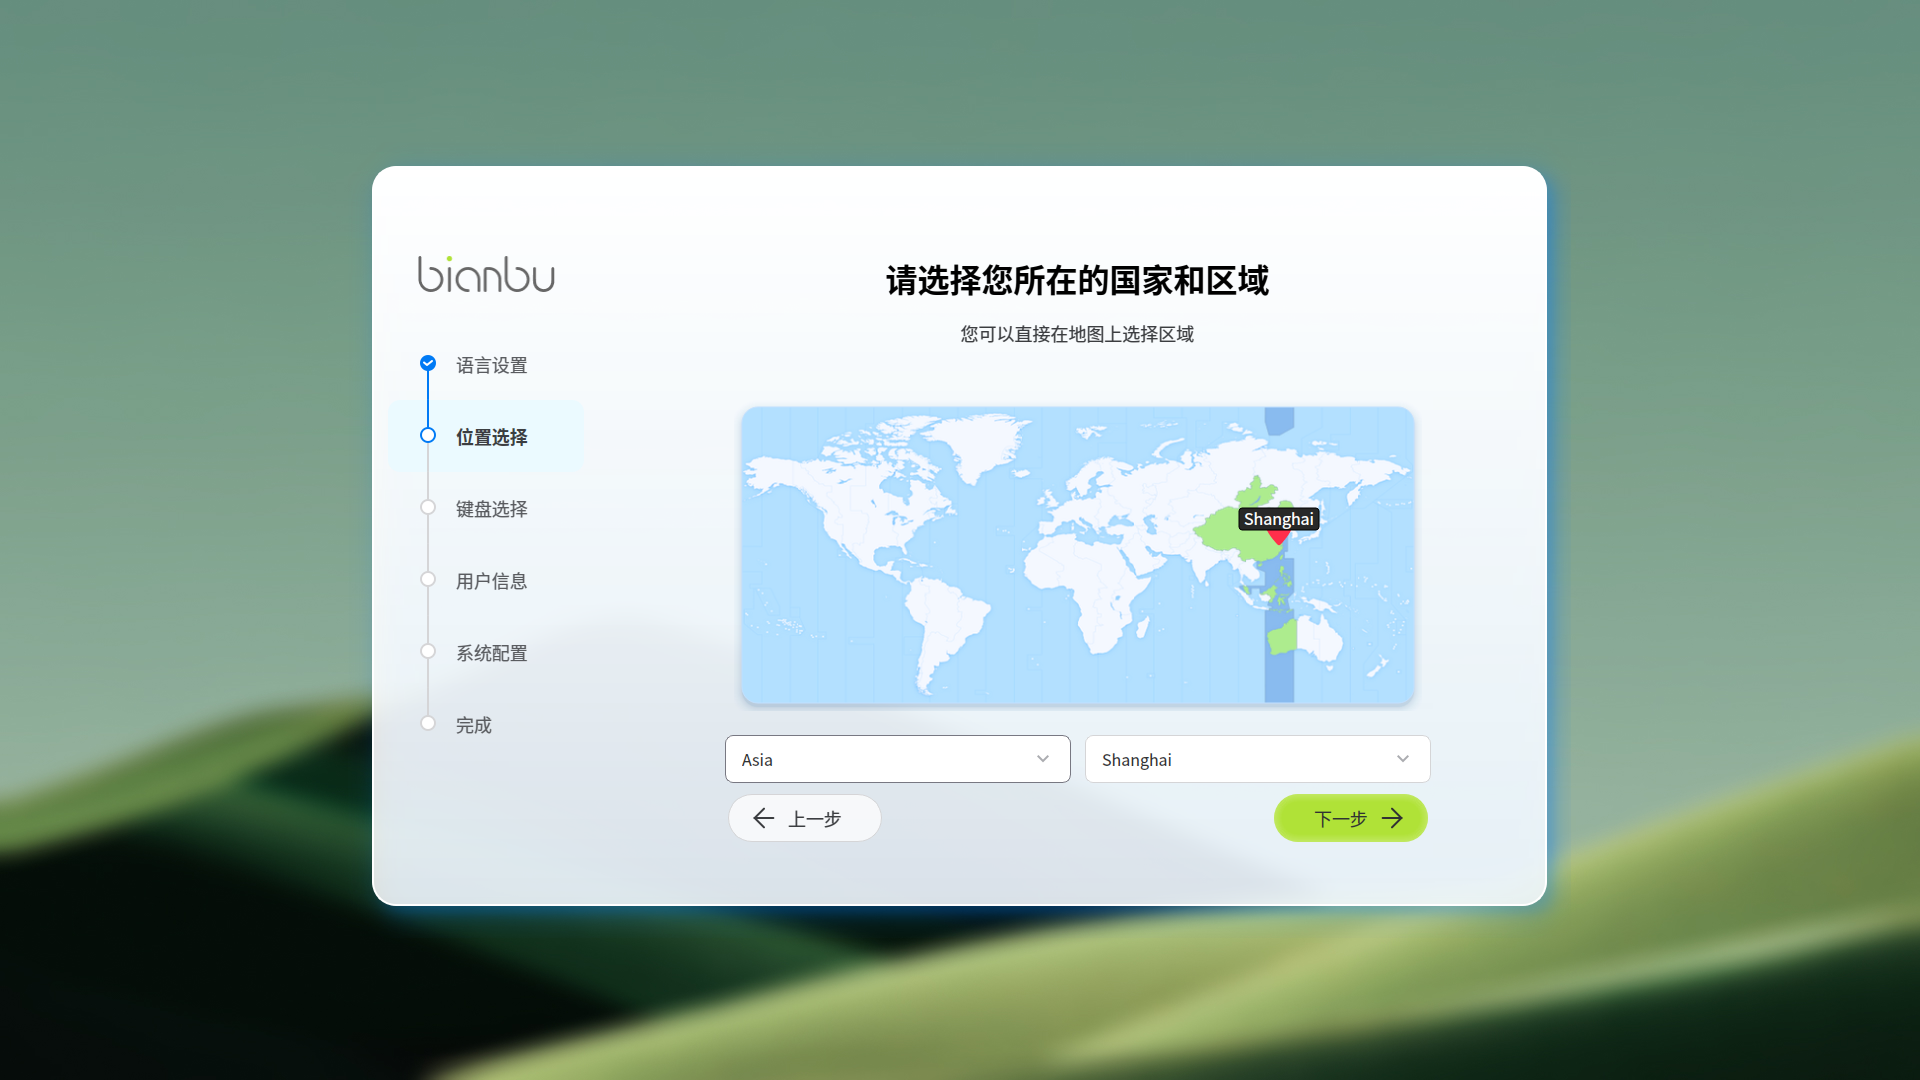
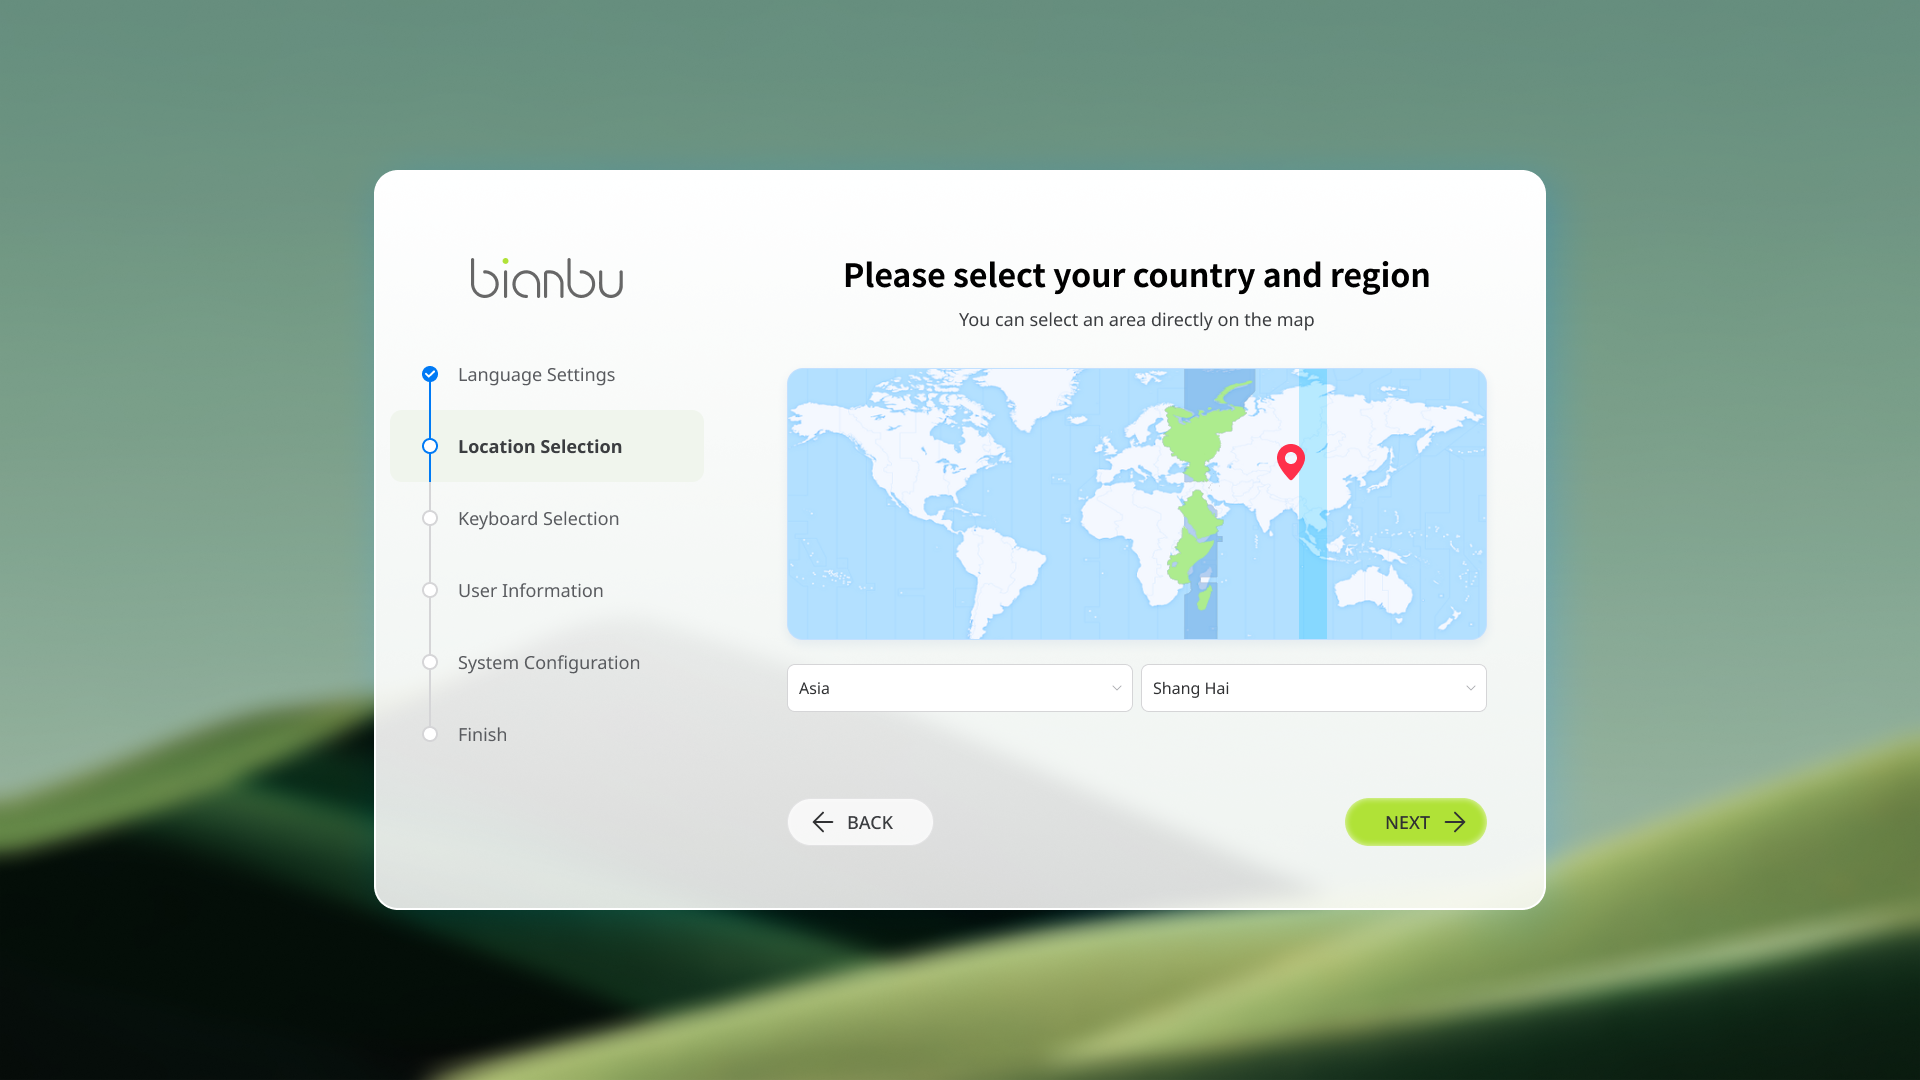
typo fixed

diff --git a/en/development/python.md b/en/development/python.md
@@ -6,27 +6,27 @@ sidebar_position: 4
 
 Python 3 is preinstalled on the Bianbu OS. You are advised to use a correct package management tool when installing third-party Python libraries. Otherwise, the dependence on software packages may be damaged.
 
-In Bianbu OS, you can install python dependencies in two ways：
+In Bianbu OS, you can install python dependencies in two ways:
 
-- Install preconfigured system Python packages using apt。
-- Create a virtual environment and install the packages using the pip package manager。
+- Install preconfigured system Python packages using apt.
+- Create a virtual environment and install the packages using the pip package manager.
 
 ## Install Python packages using apt
 
-In Bianbu OS, it is recommended to install Python3 packages via apt. These packages are usually pre-compiled and therefore faster to install. apt manages the dependencies of all packages and includes all the sub-dependencies needed to run the package when installed. Also, apt makes sure you don't break other packages when you uninstall them。
-For example, to install scipy, the scientific computing library for Python, run the following command：
+In Bianbu OS, it is recommended to install Python3 packages via apt. These packages are usually pre-compiled and therefore faster to install. apt manages the dependencies of all packages and includes all the sub-dependencies needed to run the package when installed. Also, apt makes sure you don't break other packages when you uninstall them.
+For example, to install scipy, the scientific computing library for Python, run the following command:
 
 ```shell
 sudo apt install python3-scipy
 ```
 
-To find Python packages published with apt, use apt search. In most cases, Python packages use the prefix python3- : for example, python3-numpy corresponds to Python's numpy package。
+To find Python packages published with apt, use apt search. In most cases, Python packages use the prefix python3-: for example, python3-numpy corresponds to Python's numpy package.
 
 ## Install Python packages using pip
 
 ### Changes to the pip installation
 
-In Bianbu OS, users cannot use pip to install libraries directly into the system version of Python. Trying to install a Python package system-wide using pip will output an error similar to the following：
+In Bianbu OS, users cannot use pip to install libraries directly into the system version of Python. Trying to install a Python package system-wide using pip will output an error similar to the following:
 
 ```shell
 ➜  ~ pip install numpy
@@ -52,17 +52,17 @@ note: If you believe this is a mistake, please contact your Python installation 
 hint: See PEP 668 for the detailed specification.
 ```
 
-Packages installed via pip must be installed into the Python virtual environment (venv). A virtual environment is a container where you can securely install third-party modules so that they don't interfere with your system Python environment。
+Packages installed via pip must be installed into the Python virtual environment (venv). A virtual environment is a container where you can securely install third-party modules so that they don't interfere with your system Python environment.
 
 ### Using `pip` in a virtual environment
 
-To use a virtual environment, create a container to store your Python environment. You can do this in a number of ways, depending on how you want to use Python. Let's take the virtualenv tool as an example.First install virtualenv on your system's python environment：
+To use a virtual environment, create a container to store your Python environment. You can do this in a number of ways, depending on how you want to use Python. Let's take the virtualenv tool as an example. First install virtualenv on your system's python environment:
 
 ```shell
 sudo apt install python3-virtualenv
 ```
 
-Run the following command to create the virtual environment configuration folder (myenv can be replaced with any name you like)：
+Run the following command to create the virtual environment configuration folder (myenv can be replaced with any name you like):
 
 ```shell
 virtualenv myenv
@@ -82,7 +82,7 @@ Then you should see a prompt similar to the following:
 
 The pyenv command prompt prefix indicates that the current terminal session is in a virtual environment named pyenv.
 
-To check if you are in a virtual environment, use pip list to see a list of installed packages：
+To check if you are in a virtual environment, use pip list to see a list of installed packages:
 
 ```shell
 (myenv) ➜  ~ pip list
@@ -105,7 +105,7 @@ Installing collected packages: wheel
 Successfully installed wheel-0.44.0
 ```
 
-You can verify that the installation was successful by running python3 and then importing the installed module。
+You can verify that the installation was successful by running python3 and then importing the installed module.
 
 ```shell
 (myenv) ➜  ~ python3
@@ -146,7 +146,7 @@ Users are strongly advised to use **Python 3.12 or later**. In general, it is re
 
 ### Use pyenv to manage Python versions
 
-pyenv is a very popular Python version management tool that allows you to easily install, manage, and switch between multiple versions of Python. You are free to switch between different versions of Python depending on your project's needs. Here's how to configure multiple versions of Python using pyenv。
+pyenv is a very popular Python version management tool that allows you to easily install, manage, and switch between multiple versions of Python. You are free to switch between different versions of Python depending on your project's needs. Here's how to configure multiple versions of Python using pyenv.
 
 See also for more information[The official pyenv tutorial](https://github.com/pyenv/pyenv)
 
@@ -167,7 +167,7 @@ echo 'eval "$(pyenv init -)"' >> ~/.zshrc
 source ~/.zshrc
 ```
 
-For Bash：
+For Bash:
 
 ```shell
 echo 'export PYENV_ROOT="$HOME/.pyenv"' >> ~/.bashrc

diff --git a/en/user_guide/GNOME/upgrade.md b/en/user_guide/GNOME/upgrade.md
@@ -34,6 +34,7 @@ Both **Bianbu GNOME Desktop Version** and **Bianbu NAS** support online upgrades
 >   - Choose **Remove** when prompted to delete obsolete packages
 >
 > **Note:**
+>
 > - **Do not interrupt or force-close** the update process, as this may lead to system inconsistencies or corrupted packages.
 > - If you encounter any issues during the upgrade, please refer to the [FAQs](../../faqs.md#update).
 
@@ -70,16 +71,16 @@ Follow the terminal prompts to complete the upgrade. Reboot after the process fi
 2. Launch the **Software Updater** application.
 
    ![Updater](../../static/updater_en.png)
-  Alternatively, you can launch Software Updater via **Settings** → **System** → **Software Updates**.
-  ![Updater01](../../static/updater01_en.png)
-1. Wait for update checking to complete.
+   Alternatively, you can launch Software Updater via **Settings** → **System** → **Software Updates**.
+   ![Updater01](../../static/updater01_en.png)
+   Wait for update checking to complete.
 
-2. If a new version is detected, click **Upgrade...** to begin.
+3. If a new version is detected, click **Upgrade...** to begin.
 
    ![Update Prompt](../../static/updater02_en.png)
 
    > To cancel the upgrade, click **OK**.
 
-3. Follow the upgrade wizard step by step.
+4. Follow the upgrade wizard step by step.
 
-4. Reboot the system to apply changes.
+5. Reboot the system to apply changes.

diff --git a/en/faqs.md b/en/faqs.md
@@ -22,13 +22,13 @@ If a regular user forgets their password, it can be reset using the `root` accou
 
    ![](static/tmphgeanjg5.PNG)
 
-4. Run `export LANG=en_US.UTF-8` to temporarily switch the terminal language to English and avoid character encoding issues:
+4. Run `export LANG=en_US.UTF-8` to temporarily switch the terminal language to English and avoid character encoding issues.
 
-5. Run the command `passwd username` to change the user's password, for example, to reset the password for user `bianbu`, as shown below
+5. Run the command `passwd username` to change the user's password, for example, to reset the password for user `bianbu`, as shown below:
 
    ![](static/tmpst8dy3yi.PNG)
 
-6. Press **Ctrl + Alt + F1** to return to the login screen. You can now log in with the new password..
+6. Press **Ctrl + Alt + F1** to return to the login screen. You can now log in with the new password.
 
 ## System Update
 

diff --git a/en/system_integration/bianbu_2.1_rootfs_create.md b/en/system_integration/bianbu_2.1_rootfs_create.md
@@ -10,7 +10,7 @@ It is recommended to use Ubuntu 20.04/22.04 as the host system, with Docker CE a
 
 ### Docker
 
-For docker ce installation, refer to [https://docs.docker.com/engine/install/](https://docs.docker.com/engine/install/).
+For Docker CE installation, refer to [https://docs.docker.com/engine/install/](https://docs.docker.com/engine/install/).
 
 ### QEMU
 
@@ -187,9 +187,9 @@ chroot $TARGET_ROOTFS /bin/bash -c "DEBIAN_FRONTEND=noninteractive apt-get -y --
 Different variants have different metapackages:
 
 - Minimal: `bianbu-minimal`
-- Desktop Desktop Version: `bianbu-desktop`, `bianbu-desktop-zh`, `bianbu-desktop-en`, `bianbu-desktop-minimal-en`, `bianbu-standard`, `bianbu-development`
+- Desktop Version: `bianbu-desktop`, `bianbu-desktop-zh`, `bianbu-desktop-en`, `bianbu-desktop-minimal-en`, `bianbu-standard`, `bianbu-development`
 - NAS: `bianbu-nas`
-- LXQt Desktop Version：`bianbu-desktop-lite`
+- LXQt Desktop Version: `bianbu-desktop-lite`
 
 GNOME, LXQt, and NAS variants are all based on Minimal. It is recommended to install the Minimal meta-package first, then install the corresponding meta-packages.
 

diff --git a/en/system_integration/bianbu_3.0_rootfs_create.md b/en/system_integration/bianbu_3.0_rootfs_create.md
@@ -6,11 +6,11 @@ sidebar_position: 4
 
 ## Environment Requirements
 
-The host machine is recommended to be Ubuntu 20.04/22.04, with docker ce and qemu-user-static (8.0.4, customized version with Vector 1.0 support enabled by default) installed.
+The host machine is recommended to be Ubuntu 20.04/22.04, with Docker CE and qemu-user-static (8.0.4, customized version with Vector 1.0 support enabled by default) installed.
 
 ### docker
 
-Docker ce installation can refer to [https://docs.docker.com/engine/install/](https://docs.docker.com/engine/install/).
+Docker CE installation can refer to [https://docs.docker.com/engine/install/](https://docs.docker.com/engine/install/).
 
 ### qemu
 
@@ -295,7 +295,7 @@ mke2fs -d bootfs -L bootfs -t ext4 -U $UUID_BOOTFS bootfs.ext4 "256M"
 mke2fs -d $TARGET_ROOTFS -L rootfs -t ext4 -N 524288 -U $UUID_ROOTFS rootfs.ext4 "2048M"
 ```
 
-Note: Regarding rootfs.ext4 size. minimal recommends 2048M, Bianbu GNOME version recommends 8192M, Bianbu LXQt version recommends 6144M
+Note: Regarding rootfs.ext4 size: minimal recommends 2048M, Bianbu GNOME version recommends 8192M, Bianbu LXQt version recommends 6144M
 
 At this point, you can see two partition images in the current directory, bootfs.ext4 and rootfs.ext4, which can be flashed to the board using fastboot.
 

diff --git a/en/development/r600.md b/en/development/r600.md
@@ -10,9 +10,9 @@ The GNOME Desktop firmware package is required.
 
 ## Modify Environment Variables
 
-Comment out the `MESA_LOADER_DRIVER_OVERRIDE` environment variable used to specify the Mesa graphics driver to load.The original configuration `MESA_LOADER_DRIVER_OVERRIDE=pvr` tells Mesa to load the internal pvr graphics driver. When using an R600 graphics card, this needs to be commented out, as Mesa will automatically load the R600 driver.
+Comment out the `MESA_LOADER_DRIVER_OVERRIDE` environment variable used to specify the Mesa graphics driver to load. The original configuration `MESA_LOADER_DRIVER_OVERRIDE=pvr` tells Mesa to load the internal pvr graphics driver. When using an R600 graphics card, this needs to be commented out, as Mesa will automatically load the R600 driver.
 
-If you need to use another type of graphics card, you may need to change this environment variable to the corresponding model. However, currently, gnome desktop is not adapted for other graphics card models, and they might not work properly.
+If you need to use another type of graphics card, you may need to change this environment variable to the corresponding model. However, currently, GNOME desktop is not adapted for other graphics card models, and they might not work properly.
 ```shell
 sudo vim /etc/environment
 ```

diff --git a/en/release_notes/bianbu_4.0.md b/en/release_notes/bianbu_4.0.md
@@ -23,7 +23,7 @@ Signed-By: /usr/share/keyrings/bianbu-archive-keyring.gpg
 
 **Release Date:** 2026-05-29
 
-The corresponding **BSP version:** [V1.0.2](https://spacemit.com/community/document/info?lang=en&nodepath=software/SDK/buildroot/k3_buildroot/release_notes/bl-v1.0.y.md)
+The corresponding **BSP version:** [v1.0.2](https://spacemit.com/community/document/info?lang=en&nodepath=software/SDK/buildroot/k3_buildroot/release_notes/bl-v1.0.y.md)
 
 ### LXQt Desktop
 
@@ -51,7 +51,7 @@ The corresponding **BSP version:** [V1.0.2](https://spacemit.com/community/docum
 
 **Note:** Bianbu 4.0 images support K3 only.
 
-The corresponding **BSP version:** [V1.0.0](https://spacemit.com/community/document/info?lang=en&nodepath=software/SDK/buildroot/k3_buildroot/release_notes/bl-v1.0.y.md)
+The corresponding **BSP version:** [v1.0.0](https://spacemit.com/community/document/info?lang=en&nodepath=software/SDK/buildroot/k3_buildroot/release_notes/bl-v1.0.y.md)
 
 ### LXQt Desktop
 

diff --git a/en/release_notes/history/bianbu_2.0.md b/en/release_notes/history/bianbu_2.0.md
@@ -8,7 +8,7 @@ Bianbu V2.0 will reach end of maintenance on July 31, 2025. We recommend using v
 
 Build from Ubuntu **24.04** sources.
 
-Bianbu V2.0 source：
+Bianbu V2.0 source:
 
 ```
 Types: deb
@@ -19,7 +19,7 @@ Signed-By: /usr/share/keyrings/bianbu-archive-keyring.gpg
 ```
 
 - Replace `<version>` with the actual version number (e.g., `v2.0.4`).
-- To download source packages, modify `Types: deb` to Types: `deb deb-src`.
+- To download source packages, modify `Types: deb` to `Types: deb deb-src`.
 
 ## V2.0.4
 

diff --git a/en/user_guide/GNOME/package_management.md b/en/user_guide/GNOME/package_management.md
@@ -32,13 +32,13 @@ apt-get install hello
 
 ## Remove a Package
 
-To uninstall a package while preserving its configuration files — for example, `hello`, run the following command::
+To uninstall a package while preserving its configuration files — for example, `hello`, run the following command:
 
 ```shell
 apt-get remove hello
 ```
 
-To completely remove a package along with its configuration files, run the following command::
+To completely remove a package along with its configuration files, run the following command:
 
 ```shell
 apt-get purge hello

diff --git a/en/development/dak.md b/en/development/dak.md
@@ -8,7 +8,7 @@ sidebar_position: 11
 
 The package hosting service [http://archive.spacemit.com/bianbu-community/](http://archive.spacemit.com/bianbu-community/) is a supplement to the Bianbu repository, supporting community developers to upload packages and providing access services.
 
-This document describes how to upload packages to the package hosting service. The entire process can be completed entirely on the development board, similar to the Debian upload process.
+This document describes how to upload packages to the package hosting service. The entire process can be completed on the development board, similar to the Debian upload process.
 
 ## Prerequisites
 

diff --git a/en/development/index.md b/en/development/index.md
@@ -5,7 +5,7 @@ slug: /development
 
 # Development Guide
 
-Below are some development guide:
+Below are some development guides:
 
 - [Kernel Compile](kernel_compile.md)
 - [Qt User Guide](qt.md)

diff --git a/en/development/perf.md b/en/development/perf.md
@@ -4,7 +4,7 @@ sidebar_position: 8
 
 # Perf Usage Note
 
-(For basic usage of the perf tool, please refer to the [official tutorial](https://perf.wiki.kernel.org/index.php/Tutorial). This will be not mentioned in this article.)
+(For basic usage of the perf tool, please refer to the [official tutorial](https://perf.wiki.kernel.org/index.php/Tutorial). This will not be mentioned in this article.)
 
 The current support for perf on RISC-V is related to the following software/hardware frameworks/specifications:
 